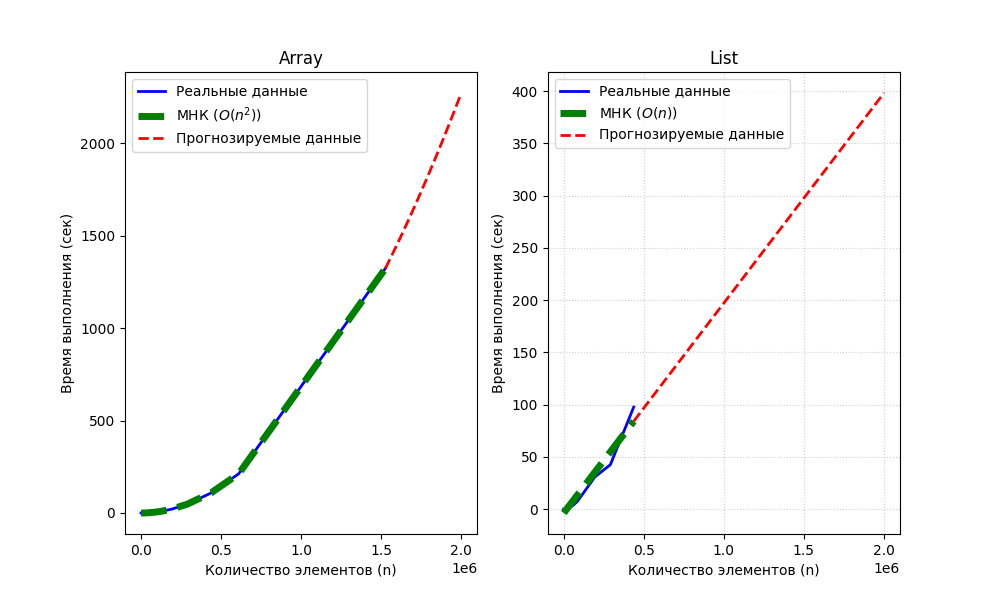
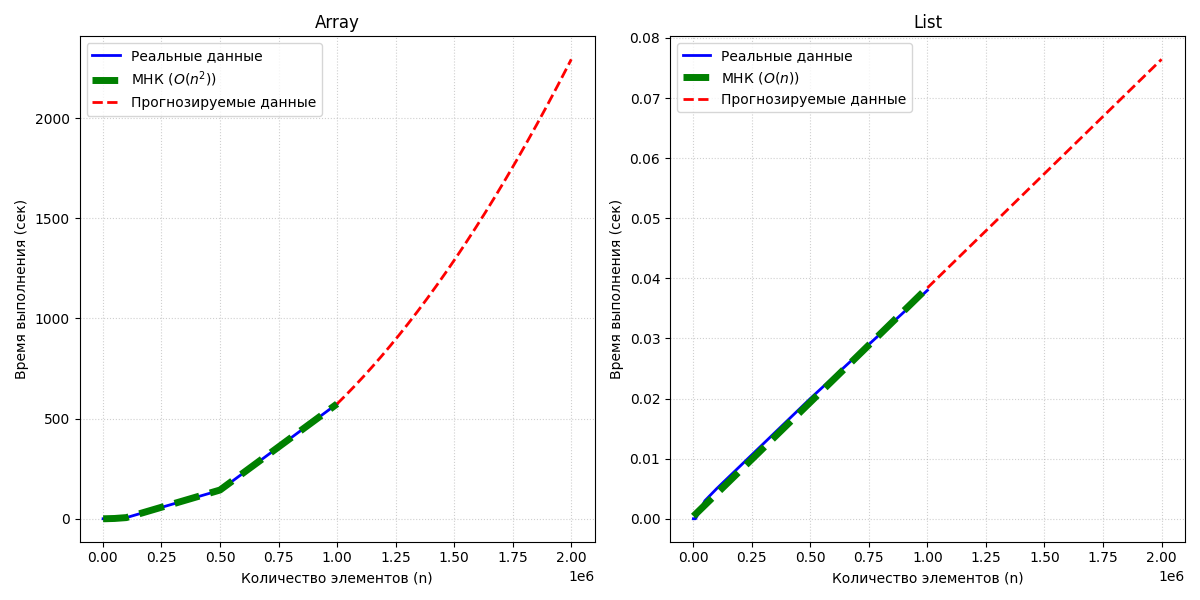
chore: add charts

diff --git a/Josephus-problem/python/main.py b/Josephus-problem/python/main.py
@@ -2,7 +2,6 @@ import matplotlib.pyplot as plt
 import pandas as pd
 import numpy as np
 
-# 1. Загрузка данных из файлов
 data = [list(map(int, s.split())) for s in open('../data/result_array.txt', 'r').readlines()]
 data_list = [list(map(int, s.split())) for s in open('../data/result_list.txt', 'r').readlines()]
 

diff --git a/Josephus-problem/README.md b/Josephus-problem/README.md
@@ -6,15 +6,12 @@
 
 ### Анализ результатов:
 
-1.  **Массив (`Array`)**:
-    *   **Сложность:** $O(n^2)$.
-    *   **Причина:** При каждом удалении массив вынужден сдвигать все последующие элементы. Это приводит к квадратичному росту времени.
-    *   **Результат:** Для 2 миллионов элементов расчет занимает более **5000 секунд** (~83 минуты).
+1. **Массив (`Array`)**:
+   * **Сложность:** $O(n^2)$.
+   * **Причина:** При каждом удалении массив вынужден сдвигать все последующие элементы. Это приводит к квадратичному росту времени.
+   * **Результат:** Для 2 миллионов элементов расчет по прогнозу занимает около **2100 секунд** (~35 минут).
 
-2.  **Список (`List`)**:
-    *   **Сложность:** $O(n)$.
-    *   **Причина:** Благодаря кольцевой структуре и отсутствию необходимости сдвигать память, удаление происходит за константное время $O(step)$, а весь цикл — за линейное.
-    *   **Результат:** Время выполнения в десятки раз меньше, чем у массива.
-
-**Вывод:** Оптимизация структуры данных позволила перевести задачу из категории «невыполнимых за разумное время» в категорию «мгновенных».
-
+2. **Список (`List`)**:
+   * **Сложность:** $O(n)$.
+   * **Причина:** Благодаря кольцевой структуре удаление происходит без сдвигов памяти, а общее время растет линейно.
+   * **Результат:** Для 2 миллионов элементов время по прогнозу составляет **400 секунд** (~6.5 минут).